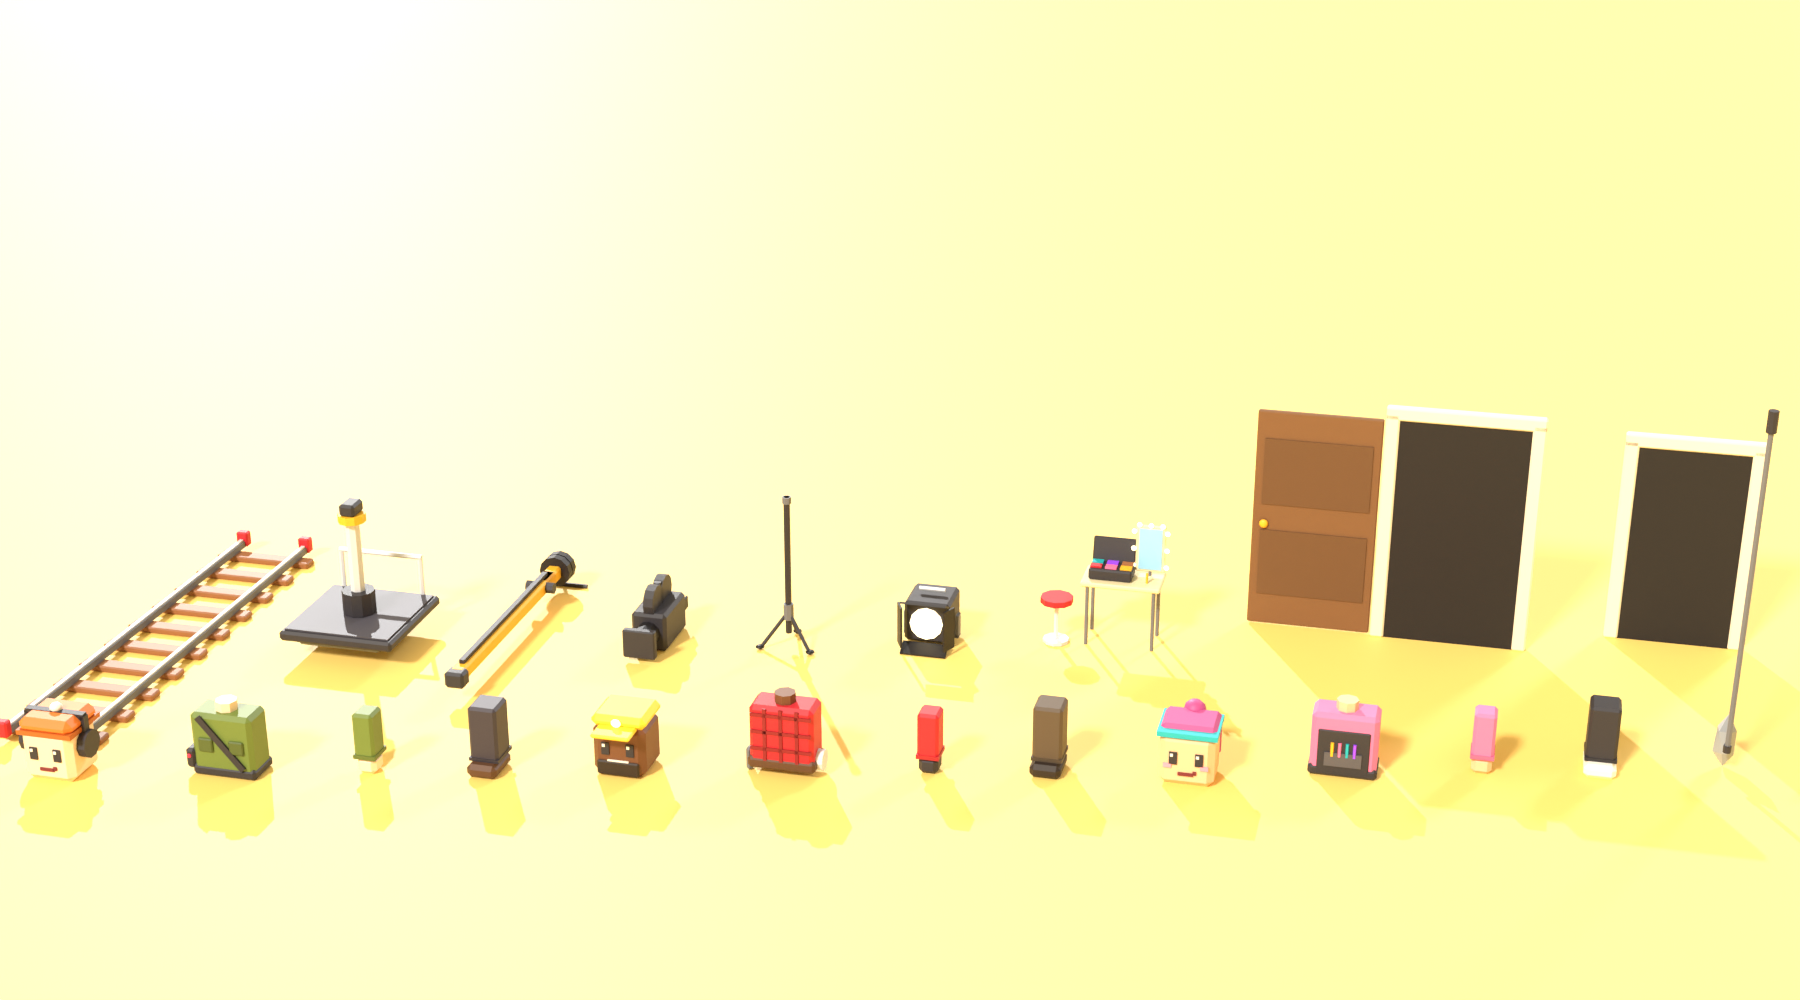
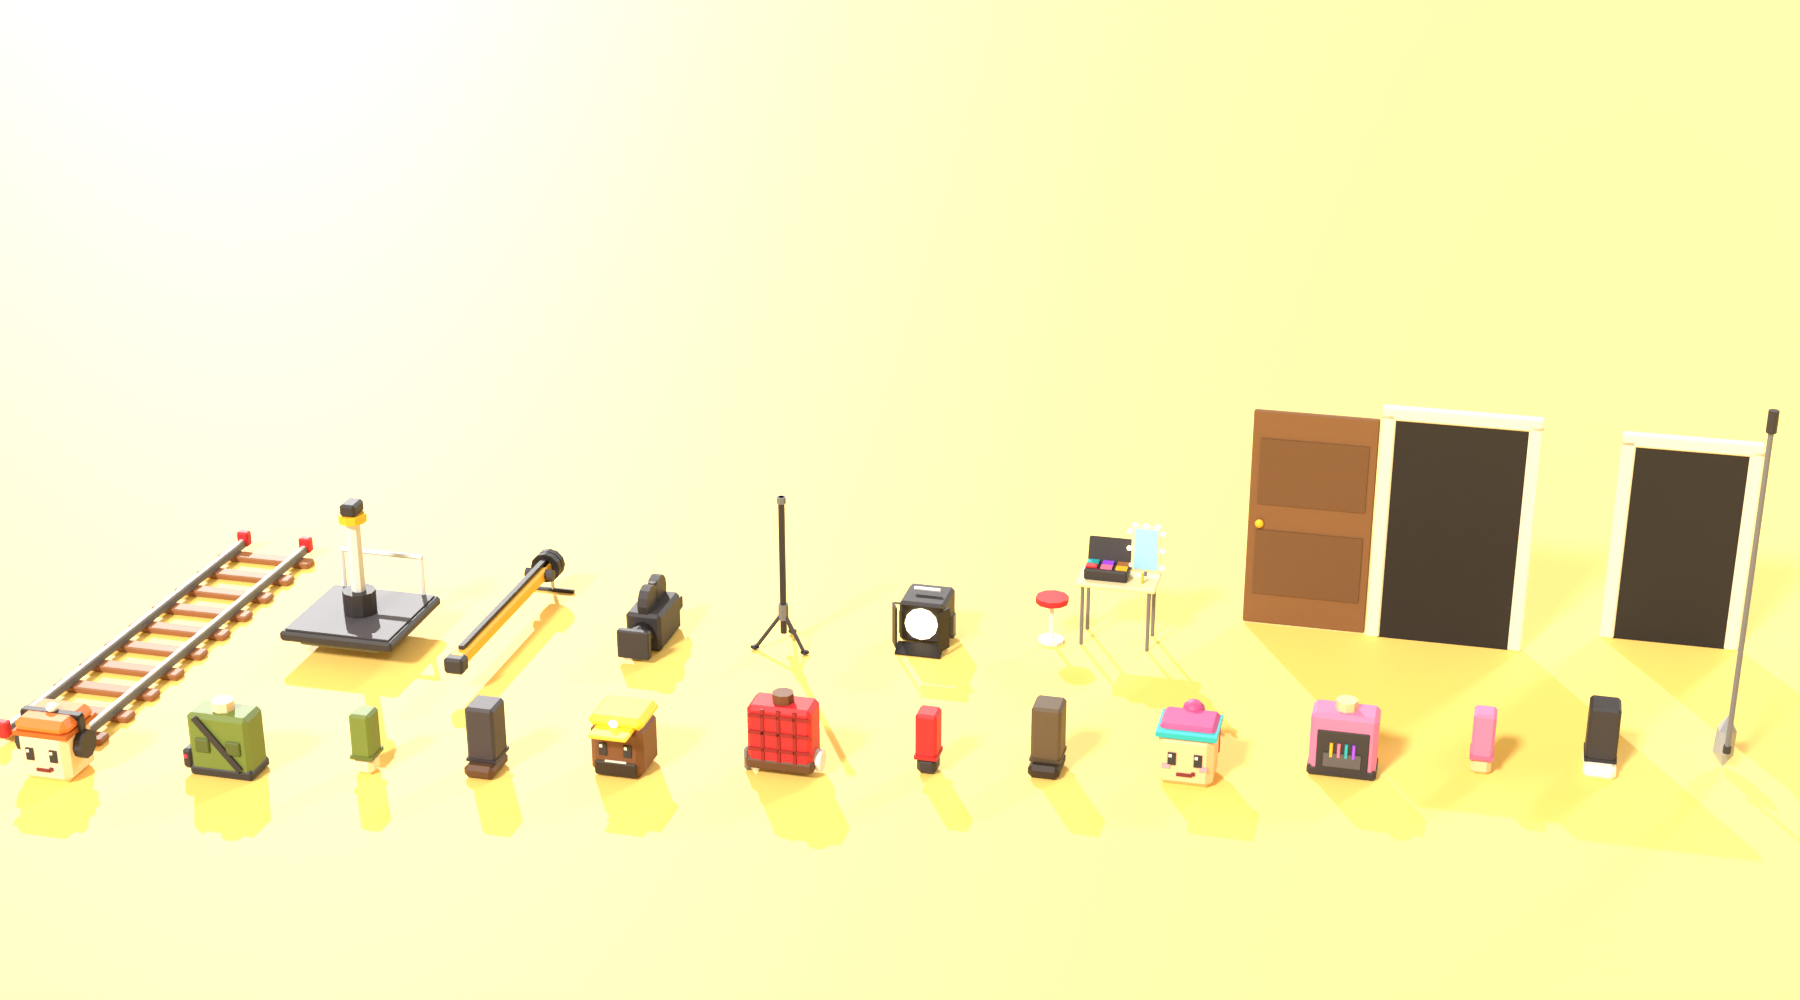
Film crews: boom pole aim built by hand (Lune's lookAt is off), megaphone at the mouth, crew lineup preview

diff --git a/art/README.md b/art/README.md
@@ -59,6 +59,11 @@ The town around the lots (`MapModels`, built by `src/server/MapService.luau`):
   by the server clock so everyone sees the same take. Dusty Gulch has a showdown and a balcony
   stunt; Moon Base (`space_kit.py`) has an astronaut planting a flag with an alien sneaking up;
   the Jungle Temple (`jungle_kit.py`) has an explorer grabbing an idol and outrunning a boulder.
+  Eight people on each set (director, camera operator on a dolly and crane, clapper loader,
+  boom operator, lighting tech, make-up artist and the actors) play a loop of rehearsals, takes,
+  bloopers, notes and resets with planted-foot walks; `tests/luau/crew.spec.luau` plays every
+  frame to check nobody snaps, slides or bumps. `map_kit_crew_more.png` shows the newer crew
+  pieces and the camera rig.
   The gate on the way in is bought with Cash; it opens on the owner's screen only. Preview a
   moment with `MAP_SCENE=filmset MAP_ARG=<set id>:<seconds>` (`Gulch`, `MoonBase`, `Jungle`) and
   the `filmset`, `filmbalcony`, `filmsetwide`, `filmgate`, `moonset`, `moonwide`, `moongate`,
